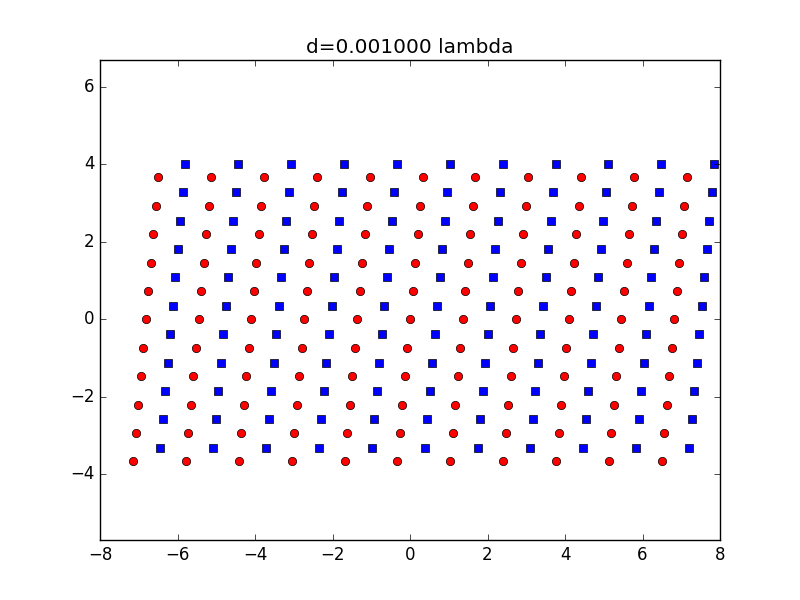
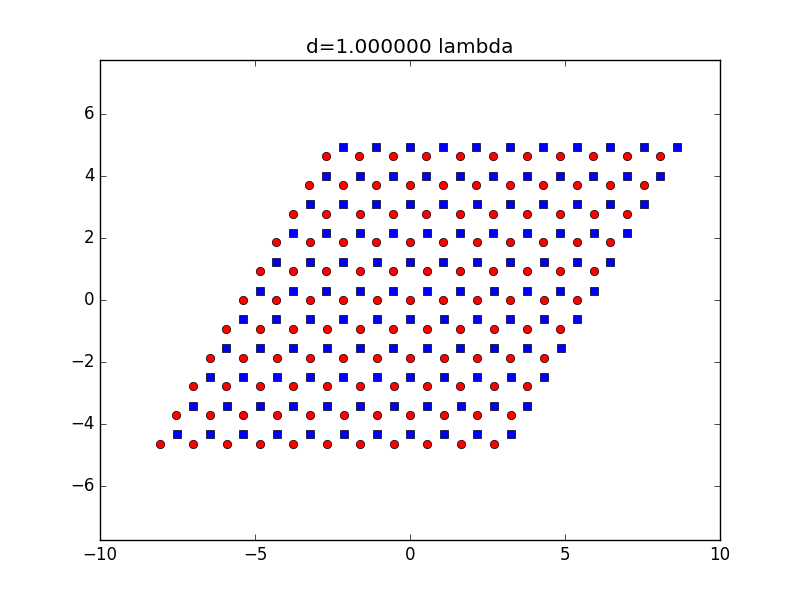
Cx will now alway be larger than cy

diff --git a/Genetic_Lattice/main.cpp b/Genetic_Lattice/main.cpp
@@ -21,7 +21,7 @@ using namespace std;
 
 
 double const lambda=1;
-double d=lambda*100;
+double d=lambda*10;
 int n=100;
 double gen_i=1;
 int const bitlen=10;
@@ -306,6 +306,7 @@ class Individual{
         accum++;
         accum*=PI/2;
         accum/=pow(2,phi.size());
+        
         return accum;
     }
 
@@ -407,6 +408,7 @@ class Individual{
     void correctCell(){
         double x=getX();
         double phi=getPhi();
+        
 
         double a=1./sqrt(x*sin(phi));
         vector<double> x1={a,0,0};
@@ -428,6 +430,15 @@ class Individual{
         a=euclid(x1);
         x=euclid(x2)/a;
         phi=acos(x2[0]/a/x); 
+
+
+        double cx=getCx();
+        double cy=getCy();
+        if(cy>cx){
+            bitset<bitlen> temp=this->cx;
+            this->cx=this->cy;
+            this->cy=temp;
+        }
 
         setVecX(x);
         setVecPhi(phi);
@@ -723,22 +734,31 @@ class Climber{
     public:
 
     vector<double> hillclimb(double x,double phi, Fitness fit, double cx, double cy){
-        double stepX=0.00001;
-        double stepPhi=0.000001;
+        double stepX=0.0001;
+        double stepPhi=0.00001;
         
         bool top=0;
         double bestfit=0;
 
         while(!top){
+
+            
+
+
+
+
             while(fit(x+stepX,phi,true,cx,cy)>fit(x,phi,true,cx,cy)) x+=stepX;
             while(fit(x-stepX,phi,true,cx,cy)>fit(x,phi,true,cx,cy)) x-=stepX;
-            while(fit(x,phi+stepPhi,true,cx,cy)>fit(x,phi,true,cx,cy)) phi+=stepPhi;
-            while(fit(x,phi-stepPhi,true,cx,cy)>fit(x,phi,true,cx,cy)) phi-=stepPhi;
+            
             while(fit(x,phi,true,cx+stepX,cy)>fit(x,phi,true,cx,cy)) cx+=stepX;
             while(fit(x,phi,true,cx-stepX,cy)>fit(x,phi,true,cx,cy)) cx-=stepX;
             while(fit(x,phi,true,cx,cy+stepX)>fit(x,phi,true,cx,cy)) cy+=stepX;
             while(fit(x,phi,true,cx,cy-stepX)>fit(x,phi,true,cx,cy)) cy-=stepX;
-            if(bestfit-fit(x,phi,true,cx,cy)<0.00000001) top=1;
+
+            while(fit(x,phi+stepPhi,true,cx,cy)>fit(x,phi,true,cx,cy)) phi+=stepPhi;
+            while(fit(x,phi-stepPhi,true,cx,cy)>fit(x,phi,true,cx,cy)) phi-=stepPhi;
+
+            if(bestfit-fit(x,phi,true,cx,cy)<0.0001) top=1;
             bestfit=fit(x,phi,true);
         }
 
@@ -802,7 +822,7 @@ int main(){
   
     
     for(int j=0;j<100;j++){
-        for(int i=0;i<200;i++){
+        for(int i=0;i<300;i++){
             gen_i=i+1;
             //d=j*0.1;
                 //high_resolution_clock::time_point t_start_parallel = high_resolution_clock::now();
@@ -823,8 +843,10 @@ int main(){
             
         }
         //gen.printIndiv();
-        cout<<endl<<endl<<"Winner of the Evolution Contest "<<j<<" :"<<endl;
+        cout<<endl<<endl<<"Winners of the Evolution Contest "<<j<<" :"<<endl;
         Individual best=gen.getLastBest();
+        //cout<<endl<<endl<<"ALL THE INDIVS"<<endl;
+        //gen.printIndiv();
         Climber climb;
         vector<double> top= climb.hillclimb(best.getX(),best.getPhi(),fit,best.getCx(),best.getCy());
         cout<<endl<<endl<<"After he climbed the hill:"<<endl<<"X="<<top[0]<<endl<<"Phi="<<top[1]*180/PI<<endl<<"a="<<(1./sqrt(top[0]*sin(top[1])))<<endl<<"cX="<<top[2]<<endl<<"cY="<<top[3]<<endl<<"Fitness="<<fit(top[0],top[1],false,top[2],top[3])<<endl;
